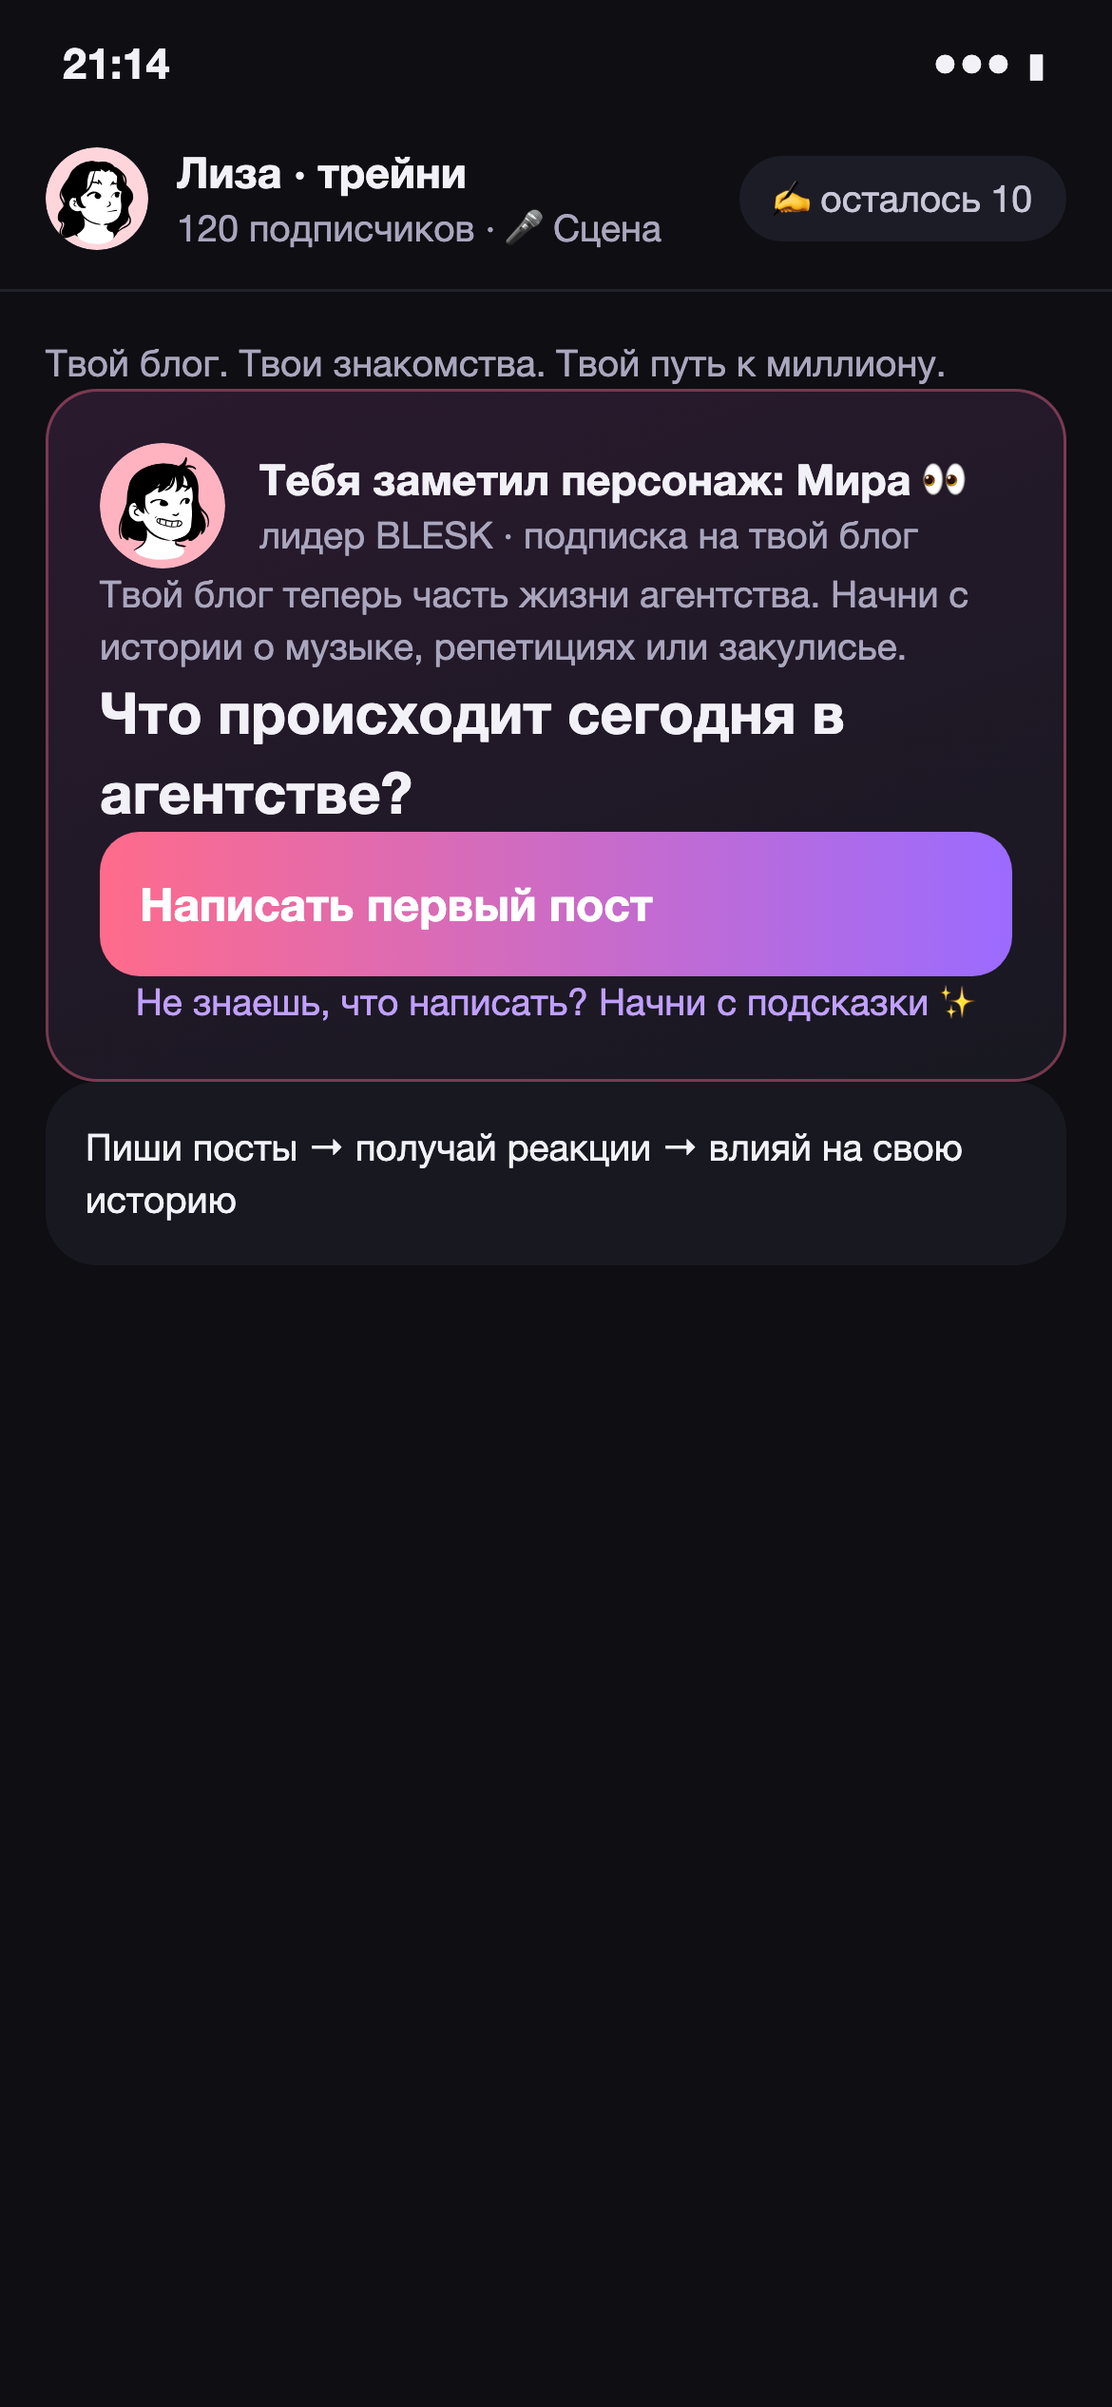
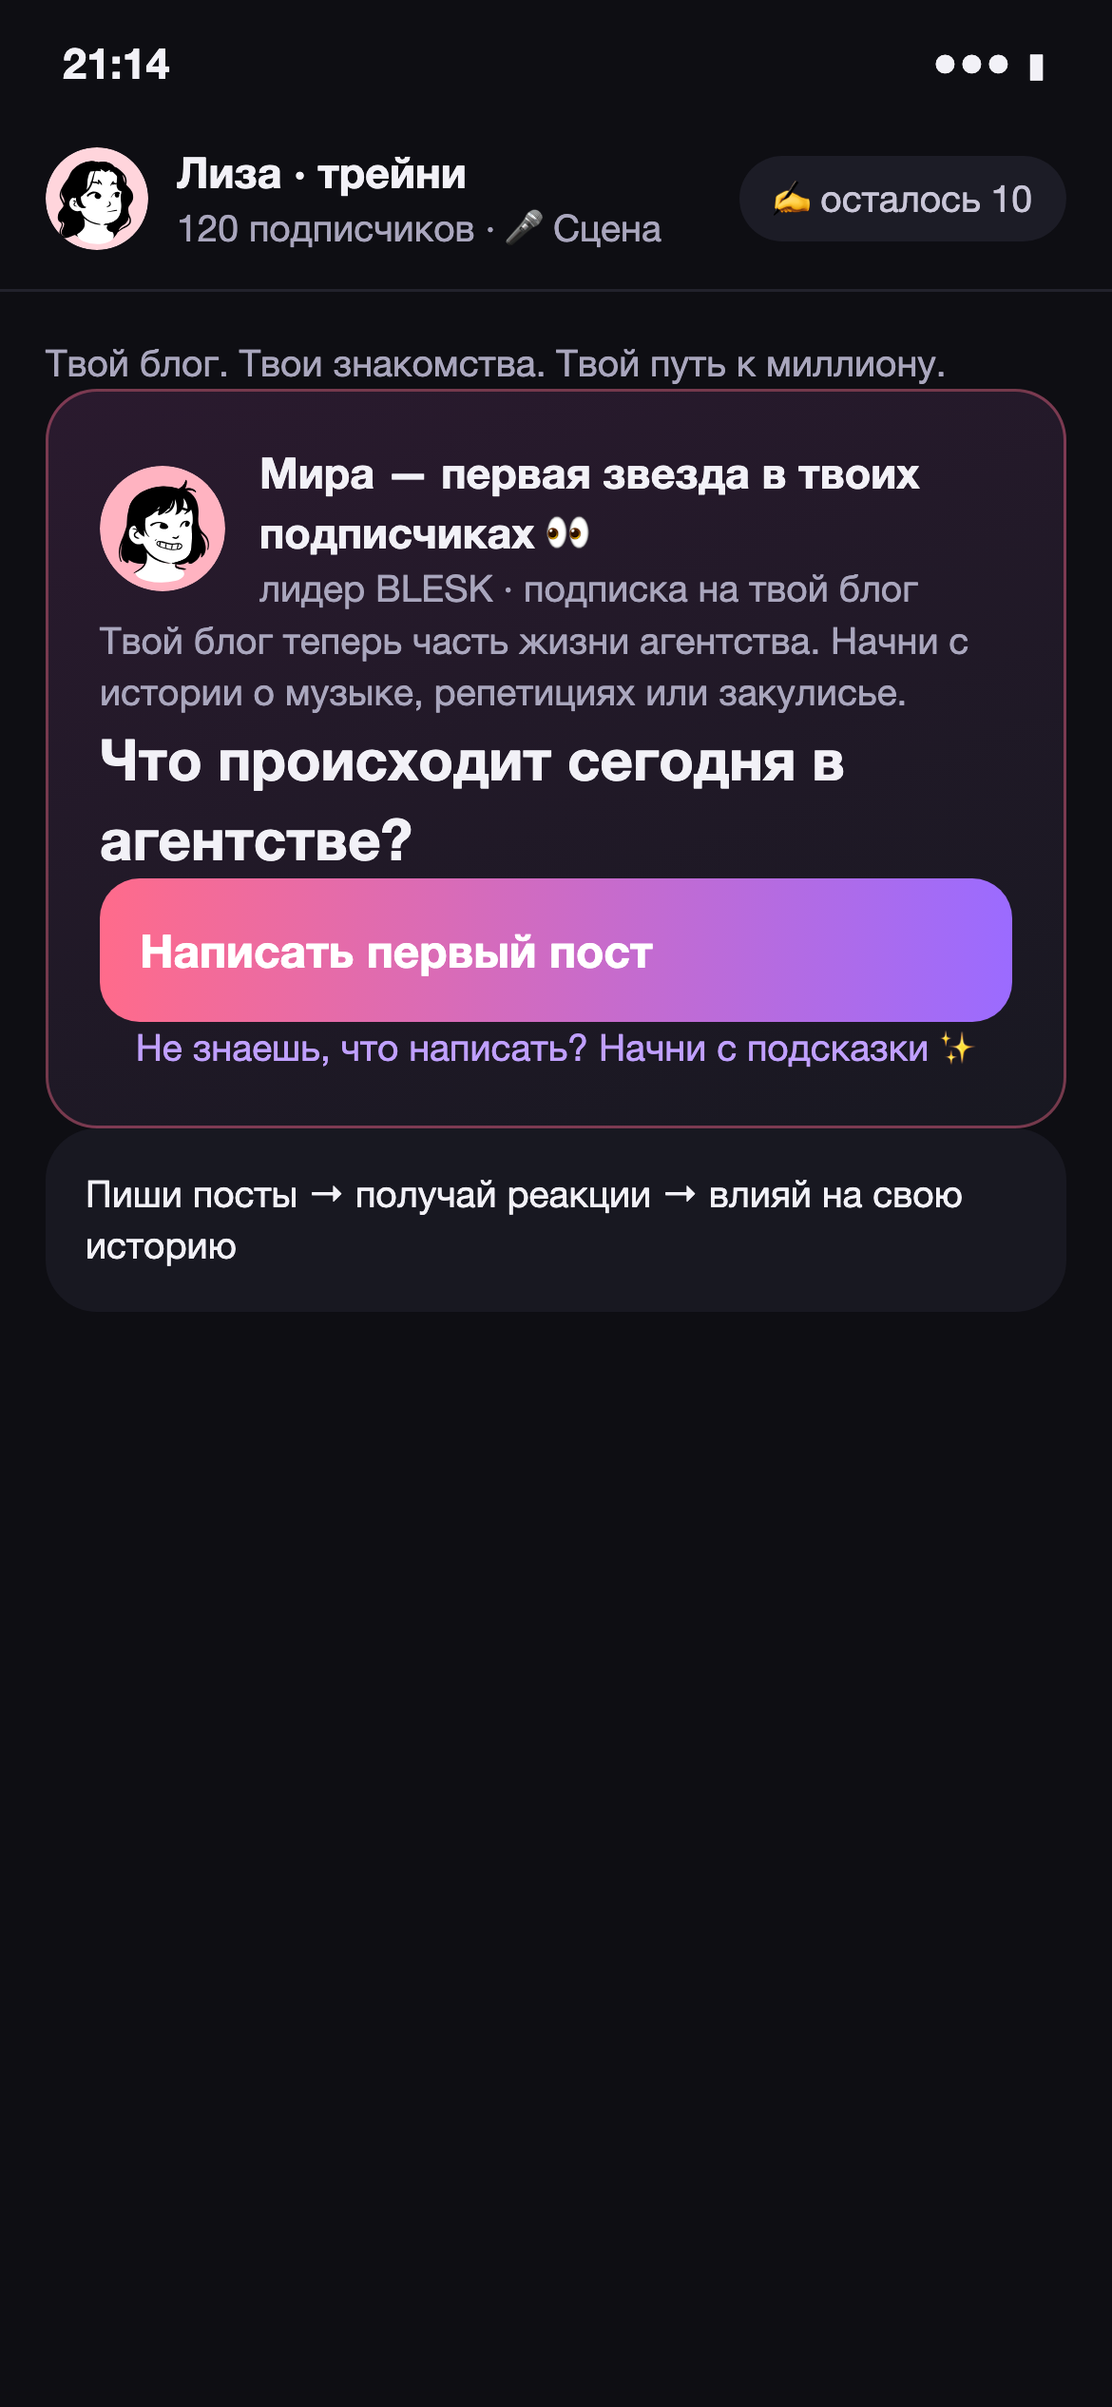
fix: звёзды своего мира в позиционировании #119

Changed region(s): [[0.0615, 0.1872, 0.9231, 0.5304], [0.9231, 0.4368, 0.9538, 0.468], [0.0308, 0.4368, 0.0615, 0.468]]

diff --git a/frontend/src/screens/onboarding.tsx b/frontend/src/screens/onboarding.tsx
@@ -32,8 +32,8 @@ function Invite() {
         <div className="brand" style={{ fontSize: 28 }}>Реки</div>
         <div className="small muted" style={{ marginTop: 8 }}>Симулятор жизни блогера 🎮</div>
         <H1>Примерь жизнь блогера, которого обсуждают все</H1>
-        <p className="muted">Пиши посты, собирай виртуальных фанатов, знакомься с персонажами и попадай в интриги 👀</p>
-        <Card><b>120 подписчиков — начало твоей истории</b><p className="small muted">Впереди — путь к миллиону в выдуманном мире. Каждый пост вызывает реакции персонажей.</p></Card>
+        <p className="muted">Пиши посты, собирай виртуальных фанатов, знакомься со звёздами своего мира и попадай в интриги 👀</p>
+        <Card><b>120 подписчиков — начало твоей истории</b><p className="small muted">Впереди — путь к миллиону в выдуманном мире. Каждый пост вызывает реакции звёзд.</p></Card>
         <p className="small muted">Только думаешь о первом посте, уже ведёшь блог или просто хочешь примерить другую жизнь? Здесь можно попробовать любой образ.</p>
         <div className="small muted">Посты остаются в игре — публиковать их в настоящих соцсетях не нужно.</div>
       </div>
@@ -240,7 +240,7 @@ export function Home() {
       <div className="pad">
         <div className="small muted" style={{ marginBottom: 10 }}>Твой блог. Твои знакомства. Твой путь к миллиону.</div>
         <div className="card" style={{ padding: 18, border: '1px solid #FF6B8B66', background: 'linear-gradient(160deg,#2A1A2E,#181821)' }}>
-          <div className="row" style={{ marginBottom: 12 }}><Avatar seed={star.id} size={44} /><div><b>Тебя заметил персонаж: {star.name} 👀</b><div className="small muted">{star.role} · подписка на твой блог</div></div></div>
+          <div className="row" style={{ marginBottom: 12 }}><Avatar seed={star.id} size={44} /><div><b>{star.name} — первая звезда в твоих подписчиках 👀</b><div className="small muted">{star.role} · подписка на твой блог</div></div></div>
           <p className="small muted">{profile.firstContext}</p>
           <div style={{ fontSize: 20, fontWeight: 800, marginBottom: 16 }}>{profile.firstPrompt}</div>
           {(p?.firstPostInviteBonus ?? 0) > 0 && <div className="gift" style={{ marginBottom: 12 }}>🎁 Первый пост даст ещё {p?.firstPostInviteBonus} ходов. Начни с любой идеи!</div>}

diff --git a/frontend/src/app/TelegramLaunch.tsx b/frontend/src/app/TelegramLaunch.tsx
@@ -15,7 +15,7 @@ export function TelegramLaunch() {
       <section className="telegram-launch__content" aria-labelledby="telegram-launch-title">
         <div className="telegram-launch__icon"><TelegramMark /></div>
         <h1 id="telegram-launch-title">Примерь жизнь блогера</h1>
-        <p>«Реки» — симулятор жизни блогера в выдуманном мире. Пиши посты, собирай виртуальных фанатов и знакомься с персонажами.</p>
+        <p>«Реки» — симулятор жизни блогера в выдуманном мире. Пиши посты, собирай виртуальных фанатов и знакомься со звёздами своего мира.</p>
         <a className="telegram-launch__button" href={TELEGRAM_APP_URL}>Открыть в Telegram</a>
       </section>
       <p className="telegram-launch__hint">Начинаешь со 120 подписчиков. Впереди — путь к миллиону. Можно просто примерить другую жизнь.</p>

diff --git a/docs/design/src/journey_v15.py b/docs/design/src/journey_v15.py
@@ -1,0 +1,3 @@
+# #119: звёзды в позиционировании; вымышленность героев остаётся в пояснениях.
+for key in ('01-1_invite', '01-6_home'):
+    S[key] = S[key].replace('знакомься с персонажами', 'знакомься со звёздами своего мира').replace('реакции персонажей', 'реакции звёзд').replace('Тебя заметил персонаж: Мира 👀', 'Мира — первая звезда в твоих подписчиках 👀')

diff --git a/docs/design/src/build_journey.py b/docs/design/src/build_journey.py
@@ -312,6 +312,8 @@ exec(open(os.path.join(D, 'journey_v13.py'), encoding='utf-8').read())  # #94–
 
 exec(open(os.path.join(D, 'journey_v14.py'), encoding='utf-8').read())  # #117
 
+exec(open(os.path.join(D, 'journey_v15.py'), encoding='utf-8').read())  # #119
+
 CH = os.environ.get('CHROME_BIN') or shutil.which('google-chrome') or shutil.which('chrome')
 if not CH and os.name == 'nt':
     CH = os.path.join(os.environ.get('PROGRAMFILES', 'C:\\Program Files'), 'Google', 'Chrome', 'Application', 'chrome.exe')

diff --git a/docs/game-flow.md b/docs/game-flow.md
@@ -2,7 +2,7 @@
 
 Источник правды для разработки. Все числа одним файлом: [config/balance.json](config/balance.json), бэкенд: [backend-spec.md](backend-spec.md). Экраны: [screens/](screens/README.md), задачи: [issues](https://github.com/Stepami/golden-mouth/issues). Если экран и этот файл расходятся, прав этот файл.
 
-**Что это.** Telegram Mini App 14+ — симулятор жизни блогера в выдуманном мире. Игрок примеряет роль, пишет посты, собирает виртуальных фанатов и знакомится с персонажами. Вход открыт для тех, кто хочет начать блог, уже ведёт его или просто хочет прожить другую жизнь. Цель: 120 → 1 000 000 подписчиков.
+**Что это.** Telegram Mini App 14+ — симулятор жизни блогера в выдуманном мире. Игрок примеряет роль, пишет посты, собирает виртуальных фанатов и знакомится со звёздами своего мира. Вход открыт для тех, кто хочет начать блог, уже ведёт его или просто хочет прожить другую жизнь. Цель: 120 → 1 000 000 подписчиков.
 
 **Решено 11.10.2026:** объясняем роль и удовольствие от игры до онбординга. Виртуальная популярность относится к игре, а не к обещанию роста настоящего блога. Тексты всех пресетов соответствуют их ролям и контенту; баланс и условия открытия не меняются.
 
@@ -27,7 +27,7 @@
 5. **Канал:** роль в мире, название и ник, «как к тебе обращаться: она / он / по нику». Превью показывает выбранную роль; био убрано.
 6. **Как устроен мир:** правила выбранного мира, голос канала и градус драмы. Настройки сохраняются через PATCH /settings после успешного создания игрока через POST /onboarding.
 7. **Первая звезда** из трёх. Она подписывается и ждёт первый пост.
-8. **Первый экран:** «Твой блог. Твои знакомства. Твой путь к миллиону», выбранный персонаж-подписчик, контекст выбранного мира, квест «первый пост» и короткий цикл «Пиши посты → получай реакции → влияй на свою историю». Подробности навыков и коллекции остаются на соответствующих экранах.
+8. **Первый экран:** «Твой блог. Твои знакомства. Твой путь к миллиону», выбранная звезда-подписчик, контекст выбранного мира, квест «первый пост» и короткий цикл «Пиши посты → получай реакции → влияй на свою историю». Подробности навыков и коллекции остаются на соответствующих экранах.
 
 **Решено 07.10.2026:** при повторном входе экран с квестом «первый пост» показываем только пока у игрока нет опубликованных постов. После первой публикации сразу открываем канал (03-5). Если проверить публикации не удалось, открываем канал с возможностью повторить загрузку, чтобы не показывать ложный квест первого поста.
 

diff --git a/docs/screens/README.md b/docs/screens/README.md
@@ -13,7 +13,7 @@
 | [01-4_channel](01-4_channel.png) | Роль в мире, название и ник (аватарка собирается из ника), «как к тебе обращаться: она / он / по нику», Превью роли; стиль аватара зависит от мира, без био |
 | [01-4b_world_setup](01-4b_world_setup.png) | Правила выбранного мира, голос канала и градус драмы; settings после onboarding |
 | [01-5_first_star](01-5_first_star.png) | Первая звезда мира из трёх |
-| [01-6_home](01-6_home.png) | Первый экран после онбординга и при повторном входе без опубликованных постов: роль и путь к миллиону, выбранный персонаж, контекст мира, первый пост и короткий игровой цикл |
+| [01-6_home](01-6_home.png) | Первый экран после онбординга и при повторном входе без опубликованных постов: роль и путь к миллиону, выбранная звезда, контекст мира, первый пост и короткий игровой цикл |
 
 ## 2. Ход
 

diff --git a/docs/positioning.md b/docs/positioning.md
@@ -8,11 +8,11 @@
 
 Каково это — стать человеком, которого обсуждают все?
 
-Пиши посты, собирай виртуальных фанатов, знакомься с персонажами и попадай в интриги. Начинаешь со 120 подписчиков — впереди путь к миллиону 👀
+Пиши посты, собирай виртуальных фанатов, знакомься со звёздами своего мира и попадай в интриги. Начинаешь со 120 подписчиков — впереди путь к миллиону 👀
 
 Только мечтаешь о первом посте, уже ведёшь блог или просто хочешь примерить другую жизнь? Начни свою историю ↓
 
-Короткое описание: Симулятор жизни блогера 🎮 Посты, виртуальные фанаты, знакомства с персонажами и путь к миллиону.
+Короткое описание: Симулятор жизни блогера 🎮 Посты, виртуальные фанаты, знакомства со звёздами и путь к миллиону.
 
 ## Миры
 
